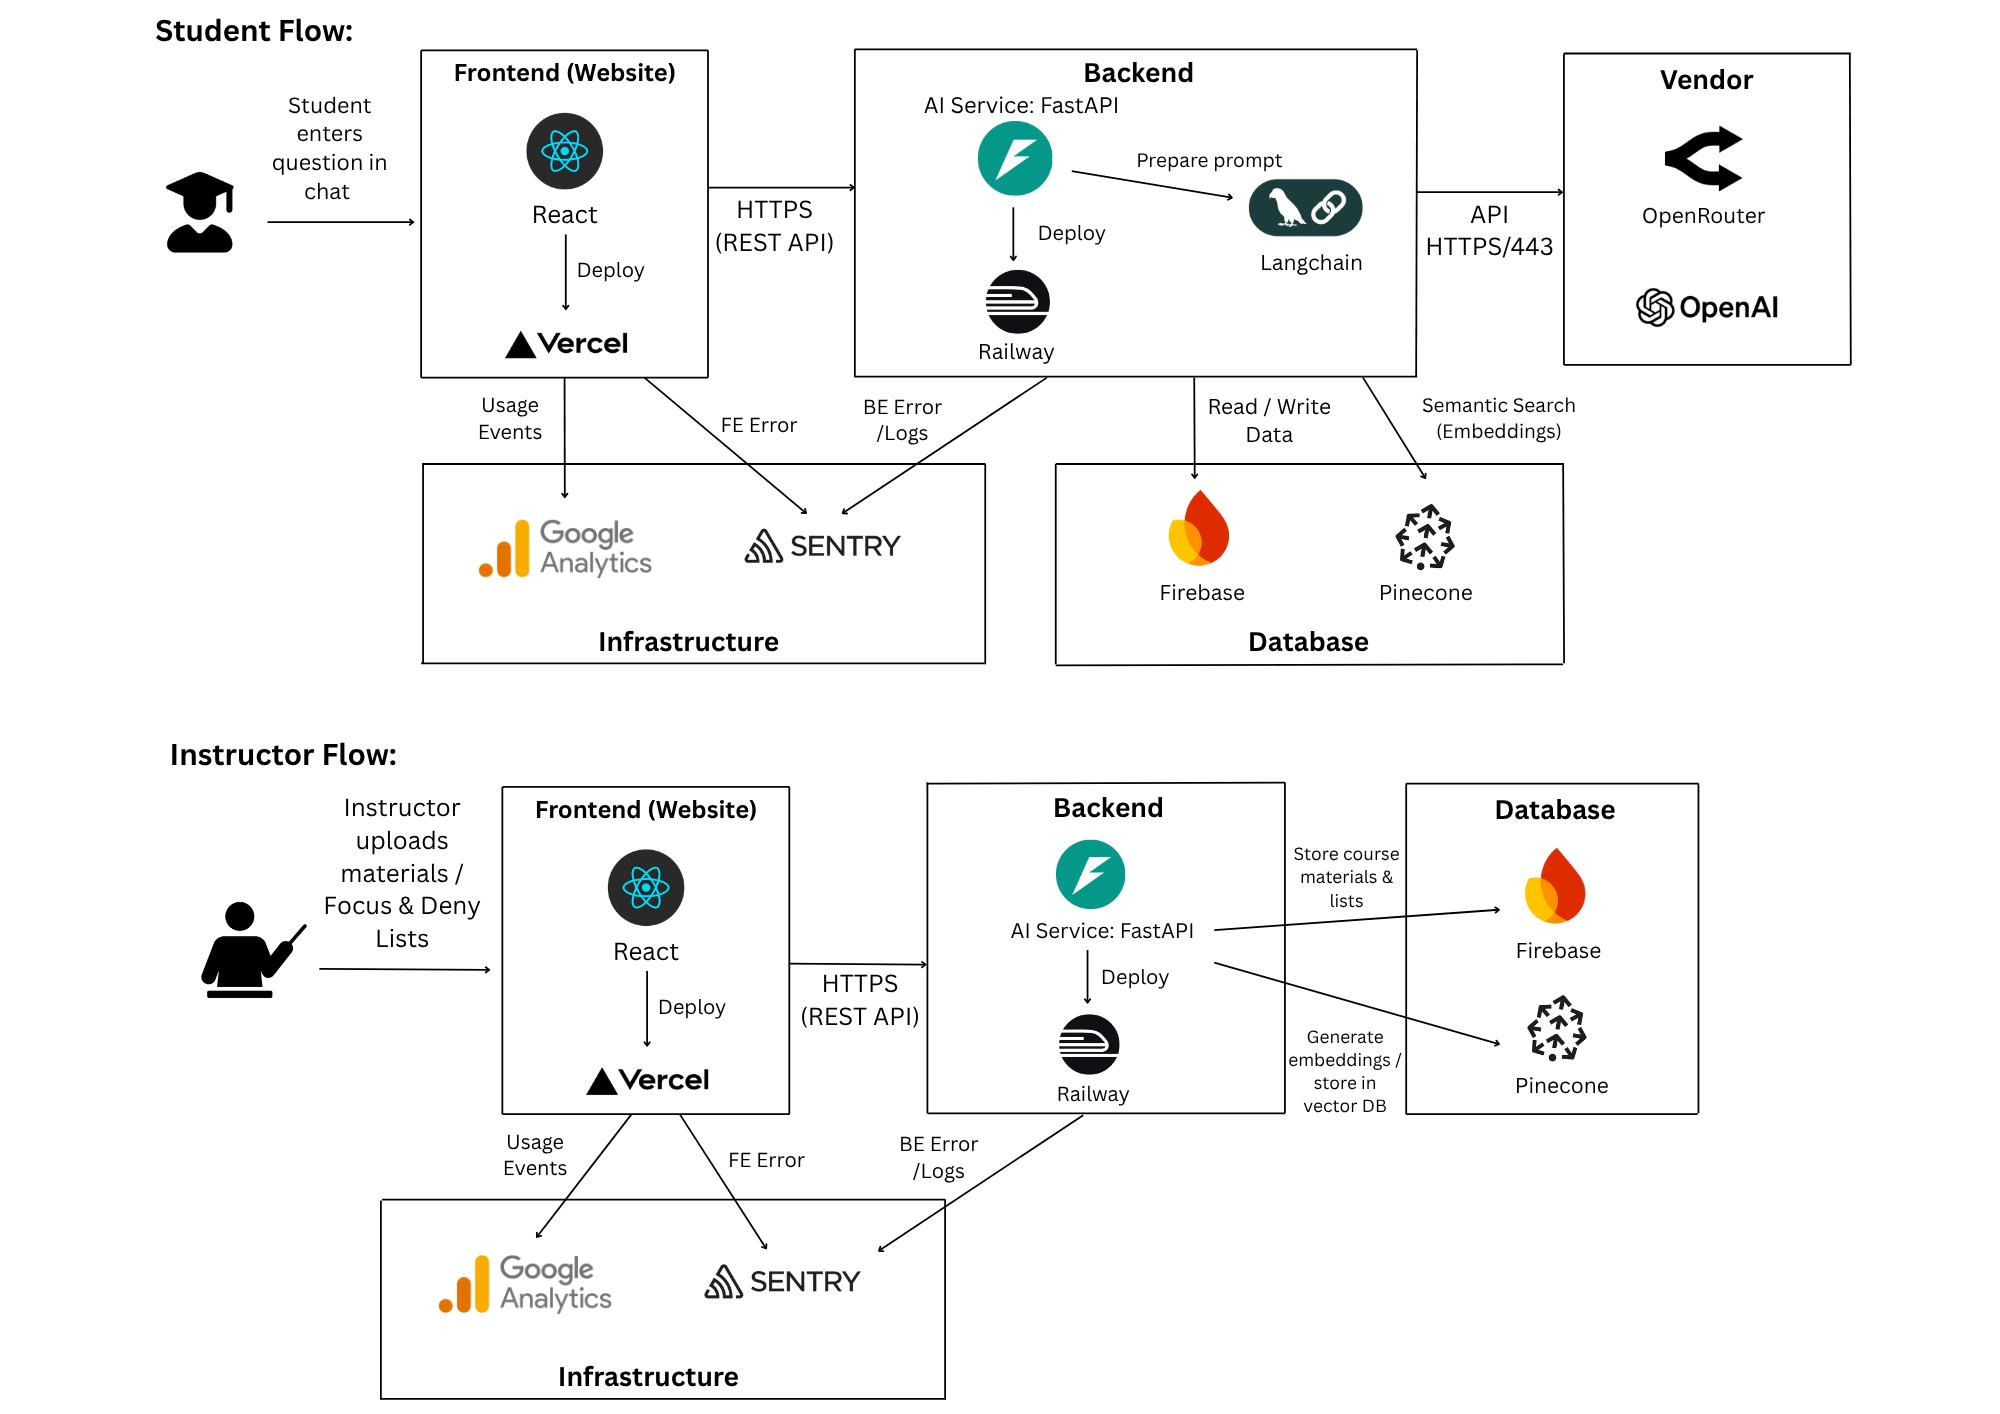
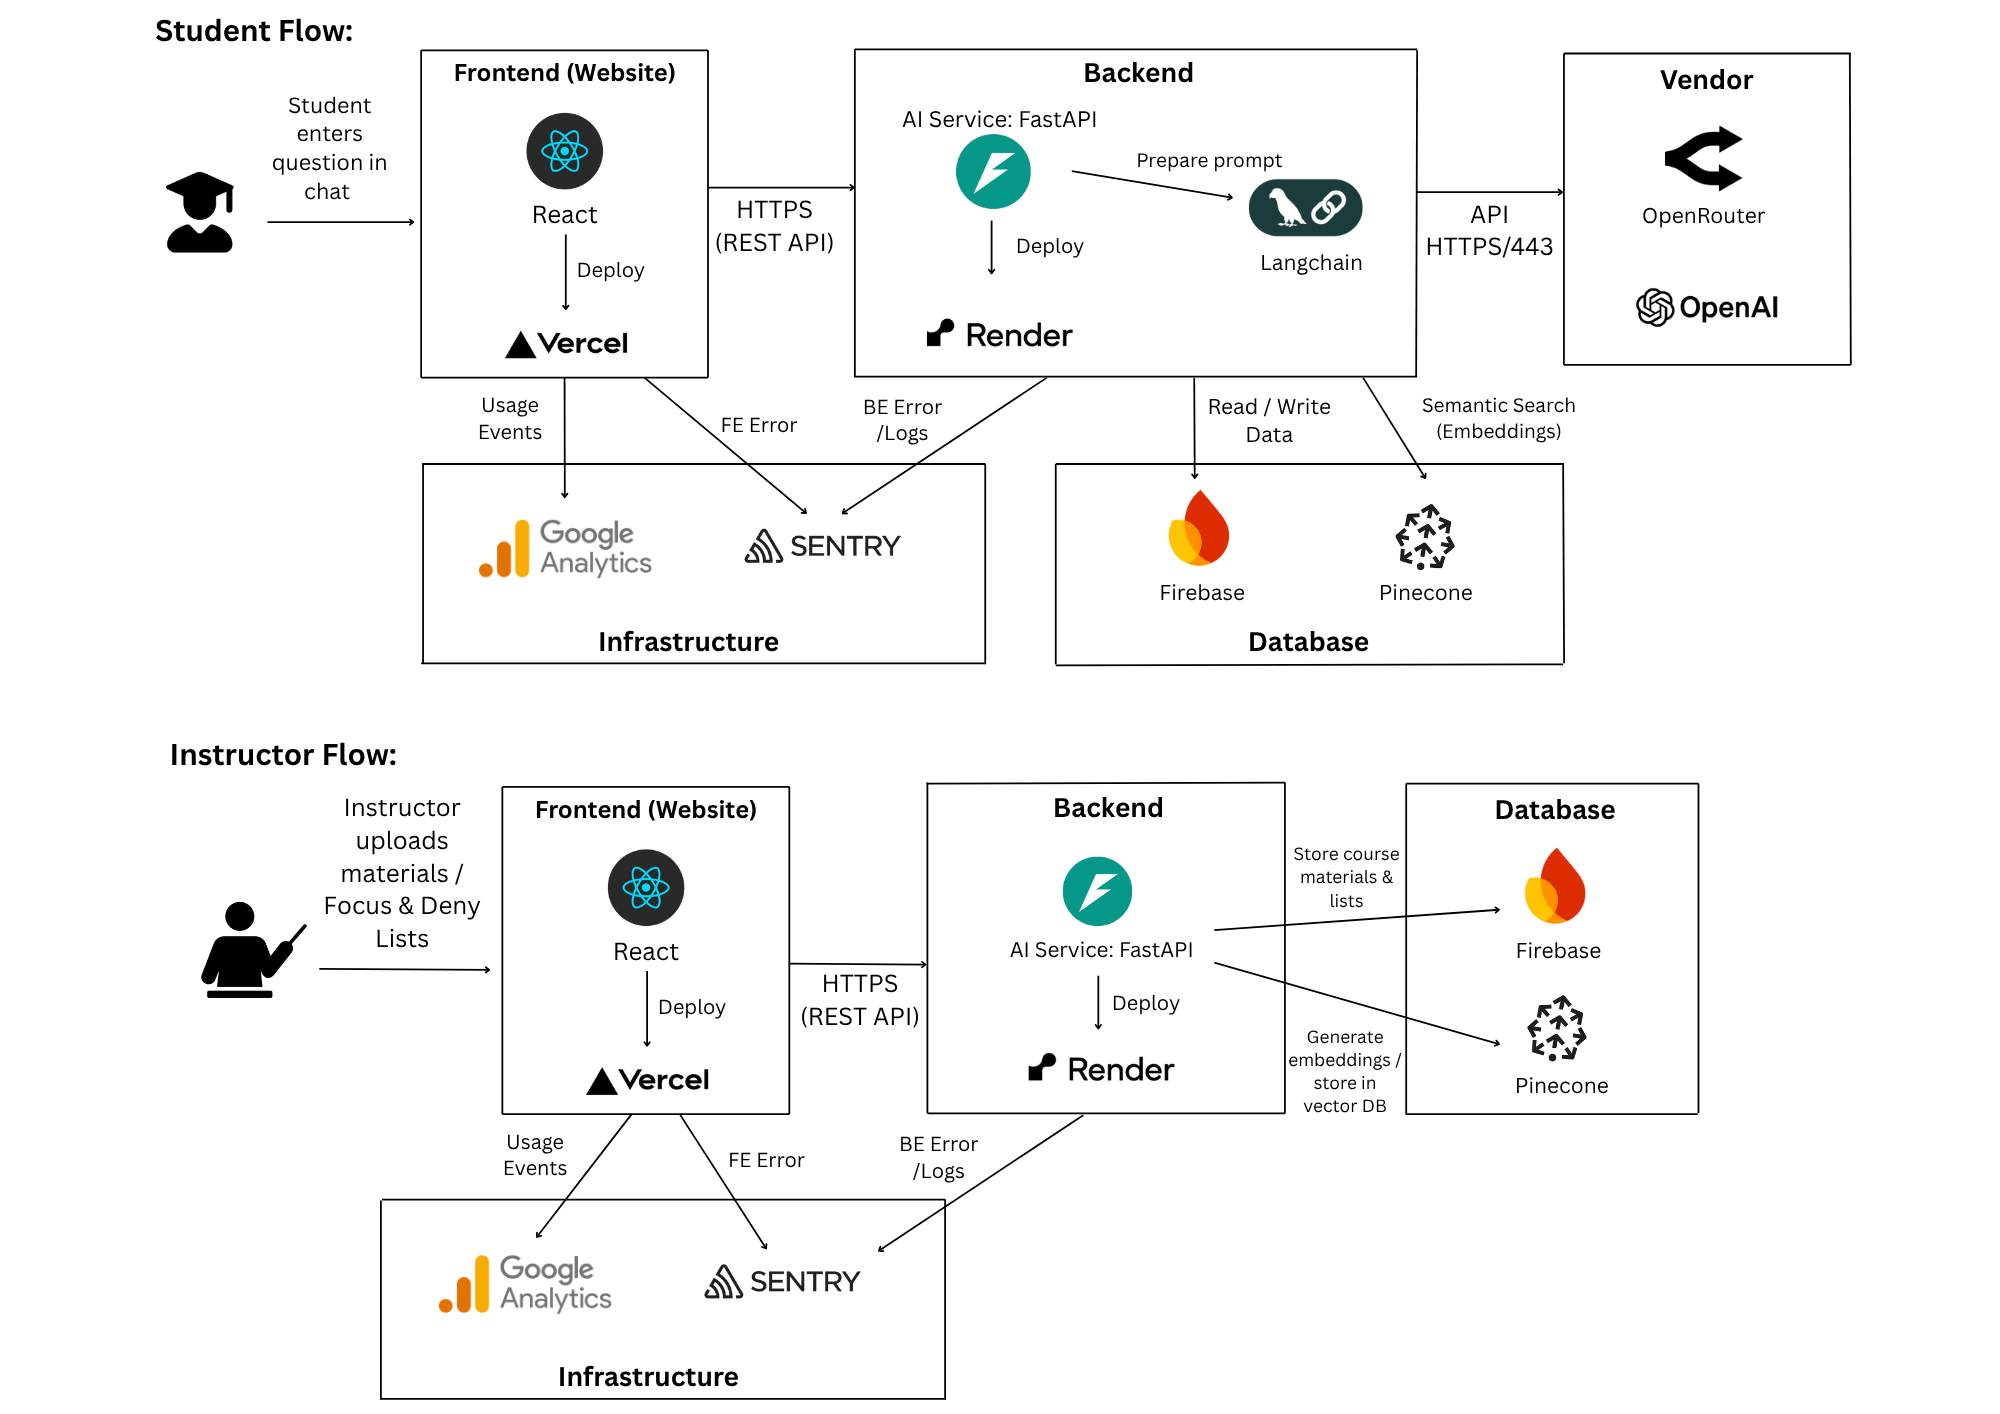
updating adr and arch diag for be hosting

Changed region(s): [[0.496, 0.5912, 0.589, 0.7779], [0.465, 0.0622, 0.558, 0.2489]]

diff --git a/architecture/adrs/adr-004-backendHosting.md b/architecture/adrs/adr-004-backendHosting.md
@@ -1,12 +1,14 @@
-## ADR 004: Backend Deployment — Railway
+## ADR 004: Backend Deployment — Render
 
 ### Context
  We need a cloud deployment platform for hosting our FastAPI backend. The platform should provide simple deployment pipelines, environment variable management, and scalability as usage grows. Since our team is small and focused on rapid iteration, we want minimal DevOps overhead, easy CI/CD integration with GitHub, and support for scaling APIs that connect to Firebase, Pinecone, and LLM services.
 
 ### Options
+**Render**: Developer-friendly cloud platform with free tier support, GitHub integration, automatic deploys, and easy configuration for backend services. Provides simple dashboards for logs, environment variables, and scaling.
+
 **Railway**: Developer-friendly deployment platform with seamless GitHub integration, simple environment management, per-service isolation, and auto-scaling. Provides free tier for early development.
 
-**Vercel**: Optimized for frontend (Next.js), limited support for long-running backend services.
+**Vercel**: Optimized for frontend (Next.js), limited support for AI backend services.
 
 **Heroku**: Mature PaaS, easy to use, but more expensive and with less generous free tiers.
 
@@ -15,7 +17,7 @@
 **Fly.io**: Good balance of simplicity and performance, supports global deployment, but ecosystem is smaller than Railway’s.
 
 ### Decision
- We chose Railway for its simplicity, GitHub integration, and low-ops experience. It provides a fast path to deploying our FastAPI backend with environment variables, monitoring, and scaling handled with minimal configuration, making it ideal for MVP and early production.
+We chose Render for hosting our FastAPI backend due to its generous free tier, simplicity, and robust GitHub integration. It allows for one-click deployments, straightforward environment variable management, and reliable uptime. While Railway was initially considered, its limited credits and trial restrictions made Render a more sustainable choice for ongoing development.
 
 ### Status
  Accepted — stands for MVP and initial production deployment.
@@ -25,9 +27,10 @@
 1. Minimal DevOps overhead, developer-friendly platform.
 2. One-click deployments with GitHub integration.
 3. Built-in environment variable and secret management.
-4. Scales with demand without complex setup.
+4. Free tier allows for experimentation and MVP testing.
+5. Easy migration path to paid plans as usage grows.
 
 **Negative / Risks:**
-1. Less granular control compared to AWS or GCP.
-2. Pricing may increase significantly at scale.
-3. Ecosystem and community are smaller than Heroku’s or AWS’s.
+1. Cold start delays on free tier services.
+2. Less granular infrastructure control compared to AWS or GCP.
+3. Potential scaling and pricing limitations at higher workloads.
